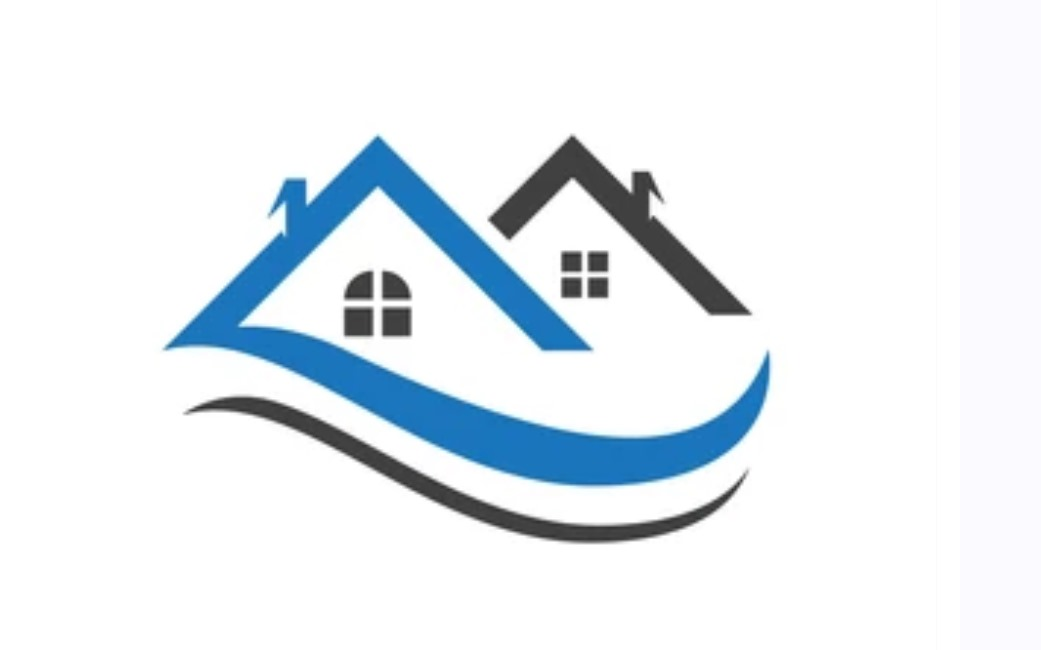
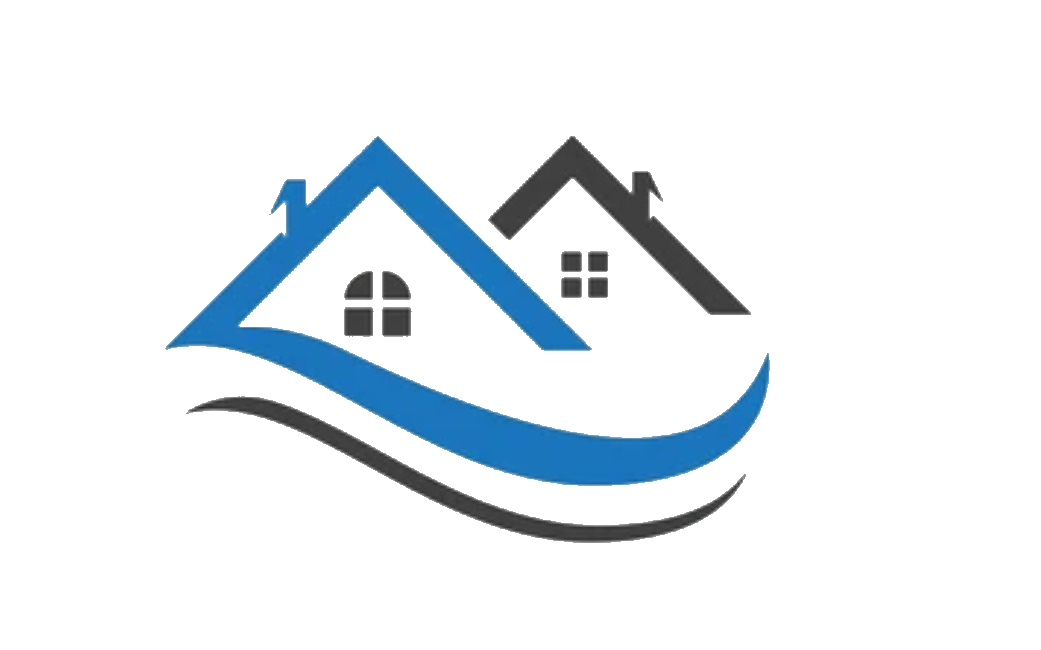
scsc

diff --git a/style.css b/style.css
@@ -1,7 +1,9 @@
 nav {
-    background: linear-gradient(to left, #304352, rgb(144, 132, 132));
-    padding:1px;
-    border-radius: 25px;  
+  background: linear-gradient(to left, #304352, rgb(144, 132, 132));
+  padding: 1px;
+  border-radius: 25px;  
+  max-width: 99%; 
+  margin: 0 auto; 
 }
 body {
     font-family: "Sofia", sans-serif;
@@ -17,22 +19,24 @@ body>.AboutSection,.bottom{
   align-items: stretch;
 }
 .nav {
-    list-style-type: none;
-    display: flex; 
-    align-items: center;
-    justify-content: space-evenly;
+  list-style-type: none;
+  display: flex;
+  align-items: center;
+  justify-content: space-between; 
+  padding: 0; 
+  margin: 0; 
     
-    
-}
-.nav-link {
-    color: #fff;
-    text-decoration: none;
-    padding: 5px 20px;
-    font-size: 23px;
 }
 
-.nav-link:hover{
-    color:rgb(170, 170, 175);
+.nav-link {
+  color: #fff;
+  text-decoration: none;
+  padding: 5px 20px;
+  font-size: 14px;
+}
+
+.nav-link:hover {
+  color: rgb(170, 170, 175);
 }
 
 .area-top{
@@ -41,12 +45,12 @@ body>.AboutSection,.bottom{
     background-repeat: no-repeat;
     background-position: top right;
     background-size: 100%;
-    padding-bottom: 7em;
+    padding-bottom: 10em;
 }
 
 .logo{
-    max-width: 100px;
-    max-height: 100px; 
+    max-width: 120px;
+    max-height: 57px; 
     transform: scaleX(-1);
 }
 .search-bar {
@@ -399,29 +403,55 @@ font-size: 15px;
 
 
 /* this is aboutUs in aboutus page */
-.AboutUs-P{
-  margin: 2em;
-  display: flex; 
-  justify-content: space-between; 
-  border: #304352 solid 3px;
-  padding: 20px;
+
+
+.AboutUS{
+display: flex;
 }
 
-.H,.A,.S{
-  overflow: hidden;
+.About-Sec {
+  padding: 0 7em;
+}
+
+
+.AboutTeam {
+  display: flex;
+}
+
+
+.aboutUs-Para p, .aboutUs-Parah1{
+  text-shadow: 2px 2px 4px rgba(0, 0, 0, 0.7); 
+  color: white;
+  
+}
+
+
+
+.H, .A, .S {
   display: flex;
   flex-direction: column-reverse;
-  margin: 0 1em;
-}
-.H img, .A img, .S img{
-  width: 30%;
-  height: auto;
+  text-shadow: 2px 2px 4px rgba(0, 0, 0, 0.7);
+  color: white; 
+  margin: 0em 3em;
+  align-items: center; 
+  text-align: center; 
 }
 
-.H img:hover,.A img:hover,.S img:hover{
+.H img, .A img, .S img {
+  margin: 1em 0em;
+  width: 30%;
+  height: auto;
+  border-radius: 50%; 
+  transition: transform 0.3s ease-in-out; 
+  box-shadow: 0 4px 8px rgba(0, 0, 0, 0.1);
   
-  width: 100%;
 }
+
+.H img:hover, .A img:hover, .S img:hover {
+  transform: scale(1.5); 
+}
+
+
 /* ABOUTUS PAGE ENDS HERE*/
 
 
@@ -560,7 +590,7 @@ font-size: 15px;
 
 /*search starts*/
 body .mid{
-  padding: 0em 7em;
+  padding: 0em 7em !important;
 }
 /*SEARCH ENDS*/
 

diff --git a/index.html b/index.html
@@ -6,13 +6,14 @@
     <title>Rental House</title>
     <link rel="stylesheet" href="style.css">
     <link rel="stylesheet" href="https://fonts.google.com/share?selection.family=Inter:wght@500|Ubuntu:ital,wght@0,300;0,400;0,500;0,700;1,300;1,400;1,500;1,700">
-    
 </head>
 <body>
   <div>
     <header>
+      
       <div class="SignForm">
         <ul>
+          <a href="https://www.facebook.com/C4kurdGroup" class="facebook"><i class="icofont-facebook"></i></a>
           <li>
             <a href="login.html">Login</a>
             <a href="signup.html">Sign up</a>
@@ -20,13 +21,12 @@
         </ul>
       </div>
     </header>
+
   </div>
-    <div class="area-top">
-    
-      
+    <div class="area-top">  
       <nav>
         <ul class="nav" style="padding-left: 0px;">
-          <img src="Images/property.jpg" alt="" class="logo">
+          <a href="index.html"><img src="Images/property.jpg" alt="" class="logo"></a>
           <li><a href="index.html" class="nav-link">Home</a></li>
           <li><a href="About.html" class="nav-link">About Us</a></li>
           <li><a href="News.html" class="nav-link">News</a></li>
@@ -58,7 +58,7 @@
                 <strong>is a long established fact that a reader <br>will be distracted by readable content.</strong> 
               </p>
                 <div class="btn-box">
-                    <a href="" class="read">
+                    <a href="About.html" class="read">
                     Read More
                     </a>
                 </div>
@@ -81,7 +81,7 @@
                 </p>
             </div>
             <div class="btn-box">
-                <a href="" class="read">
+                <a href="About.html" class="read">
                 Read More
                 </a>
             </div>

diff --git a/About.html b/About.html
@@ -25,7 +25,7 @@
       
       <nav>
         <ul class="nav" style="padding-left: 0px;">
-          <img src="Images/property.jpg" alt="" class="logo">
+          <a href="index.html"><img src="Images/property.jpg" alt="" class="logo"></a>
           <li><a href="index.html" class="nav-link">Home</a></li>
           <li><a href="About.html" class="nav-link">About Us</a></li>
           <li><a href="News.html" class="nav-link">News</a></li>
@@ -44,10 +44,18 @@
         </ul>
       </nav>
 
-    <section class="AboutUs-P">
-      <div>
+    <section class="About-Sec">
+      <div class="AboutUs">
         <h1 class="C">About </h1> <h1 class="U"> Us</h1>
       </div>
+      <div class="aboutUs-Para">
+      <p>
+        We are a company that began as a Rental Company, hence the name, but we expanded to become a both Sale and Rental Company. Although our 
+        scope expanded, we didn't change our name just like how our services will not change either for our loyal costumers.
+      </p><br>
+    </div>
+    <div class="AboutTeam">
+      <H1 class="">Staff</H1>
       <div class="H">
         <label for="name">ID: IT-22-032</label>
         <label for="age">Age:22</label>
@@ -62,6 +70,7 @@
         <label for="name">ID: IT-22-017</label>
         <label for="age">Age:18</label>
         <img src="Images/coder.jpg" alt="">
+      </div>
       </div>
     </section>
 </body>

diff --git a/Search.html b/Search.html
@@ -25,7 +25,7 @@
       
       <nav>
         <ul class="nav" style="padding-left: 0px;">
-          <img src="Images/property.jpg" alt="" class="logo">
+          <a href="index.html"><img src="Images/property.jpg" alt="" class="logo"></a>
           <li><a href="index.html" class="nav-link">Home</a></li>
           <li><a href="About.html" class="nav-link">About Us</a></li>
           <li><a href="News.html" class="nav-link">News</a></li>
@@ -43,6 +43,7 @@
           <li><a href="contact.html" class="nav-link">Contact Us</a></li>
         </ul>
       </nav>
+      
 <div class="mid">
     <h1 id="title">FIND YOUR DREAM HOUSE</h1>
     <div class="search-bar">

diff --git a/FAQs.html b/FAQs.html
@@ -25,7 +25,7 @@
       
       <nav>
         <ul class="nav" style="padding-left: 0px;">
-          <img src="Images/property.jpg" alt="" class="logo">
+          <a href="index.html"><img src="Images/property.jpg" alt="" class="logo"></a>
           <li><a href="index.html" class="nav-link">Home</a></li>
           <li><a href="About.html" class="nav-link">About Us</a></li>
           <li><a href="News.html" class="nav-link">News</a></li>

diff --git a/News.html b/News.html
@@ -25,7 +25,7 @@
       
       <nav>
         <ul class="nav" style="padding-left: 0px;">
-          <img src="Images/property.jpg" alt="" class="logo">
+          <a href="index.html"><img src="Images/property.jpg" alt="" class="logo"></a>
           <li><a href="index.html" class="nav-link">Home</a></li>
           <li><a href="About.html" class="nav-link">About Us</a></li>
           <li><a href="News.html" class="nav-link">News</a></li>

diff --git a/Offers.html b/Offers.html
@@ -25,7 +25,7 @@
       
       <nav>
         <ul class="nav" style="padding-left: 0px;">
-          <img src="Images/property.jpg" alt="" class="logo">
+          <a href="index.html"><img src="Images/property.jpg" alt="" class="logo"></a>
           <li><a href="index.html" class="nav-link">Home</a></li>
           <li><a href="About.html" class="nav-link">About Us</a></li>
           <li><a href="News.html" class="nav-link">News</a></li>

diff --git a/Properties.html b/Properties.html
@@ -25,7 +25,7 @@
       
       <nav>
         <ul class="nav" style="padding-left: 0px;">
-          <img src="Images/property.jpg" alt="" class="logo">
+          <a href="index.html"><img src="Images/property.jpg" alt="" class="logo"></a>
           <li><a href="index.html" class="nav-link">Home</a></li>
           <li><a href="About.html" class="nav-link">About Us</a></li>
           <li><a href="News.html" class="nav-link">News</a></li>

diff --git a/contact.html b/contact.html
@@ -25,7 +25,7 @@
       
       <nav>
         <ul class="nav" style="padding-left: 0px;">
-          <img src="Images/property.jpg" alt="" class="logo">
+          <a href="index.html"><img src="Images/property.jpg" alt="" class="logo"></a>
           <li><a href="index.html" class="nav-link">Home</a></li>
           <li><a href="About.html" class="nav-link">About Us</a></li>
           <li><a href="News.html" class="nav-link">News</a></li>

diff --git a/login.html b/login.html
@@ -25,7 +25,7 @@
       
       <nav>
         <ul class="nav" style="padding-left: 0px;">
-          <img src="Images/property.jpg" alt="" class="logo">
+          <a href="index.html"><img src="Images/property.jpg" alt="" class="logo"></a>
           <li><a href="index.html" class="nav-link">Home</a></li>
           <li><a href="About.html" class="nav-link">About Us</a></li>
           <li><a href="News.html" class="nav-link">News</a></li>

diff --git a/offers_hawler.html b/offers_hawler.html
@@ -25,7 +25,7 @@
       
       <nav>
         <ul class="nav" style="padding-left: 0px;">
-          <img src="Images/property.jpg" alt="" class="logo">
+          <a href="index.html"><img src="Images/property.jpg" alt="" class="logo"></a>
           <li><a href="index.html" class="nav-link">Home</a></li>
           <li><a href="About.html" class="nav-link">About Us</a></li>
           <li><a href="News.html" class="nav-link">News</a></li>

diff --git a/offers_sulimany.html b/offers_sulimany.html
@@ -25,7 +25,7 @@
       
       <nav>
         <ul class="nav" style="padding-left: 0px;">
-          <img src="Images/property.jpg" alt="" class="logo">
+          <a href="index.html"><img src="Images/property.jpg" alt="" class="logo"></a>
           <li><a href="index.html" class="nav-link">Home</a></li>
           <li><a href="About.html" class="nav-link">About Us</a></li>
           <li><a href="News.html" class="nav-link">News</a></li>
